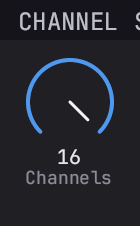
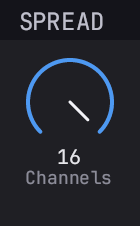
Examples: midi examples tweaks

diff --git a/examples/truce-example-midi-synth/src/lib.rs b/examples/truce-example-midi-synth/src/lib.rs
@@ -139,7 +139,7 @@ impl PluginLogic for MidiSynth {
 
     fn editor(&self) -> Box<dyn Editor> {
         GridLayout::build(vec![widgets(vec![knob(P::Gain, "Gain")])])
-            .with_title("MIDI SYNTH")
+            .with_title("MSYNTH")
             .into_editor(&self.params)
     }
 }

diff --git a/examples/truce-example-mpe-spreader/src/lib.rs b/examples/truce-example-mpe-spreader/src/lib.rs
@@ -110,7 +110,7 @@ impl PluginLogic for Spreader {
 
     fn editor(&self) -> Box<dyn Editor> {
         GridLayout::build(vec![widgets(vec![knob(P::Channels, "Channels")])])
-            .with_title("CHANNEL SPREAD")
+            .with_title("SPREAD")
             .into_editor(&self.params)
     }
 }

diff --git a/examples/truce-example-sysex-echo/src/lib.rs b/examples/truce-example-sysex-echo/src/lib.rs
@@ -63,7 +63,7 @@ impl PluginLogic for SysexEcho {
 
     fn editor(&self) -> Box<dyn Editor> {
         GridLayout::build(vec![widgets(vec![toggle(P::Enabled, "Enabled")])])
-            .with_title("SYSEX ECHO")
+            .with_title("SYSEX")
             .into_editor(&self.params)
     }
 }